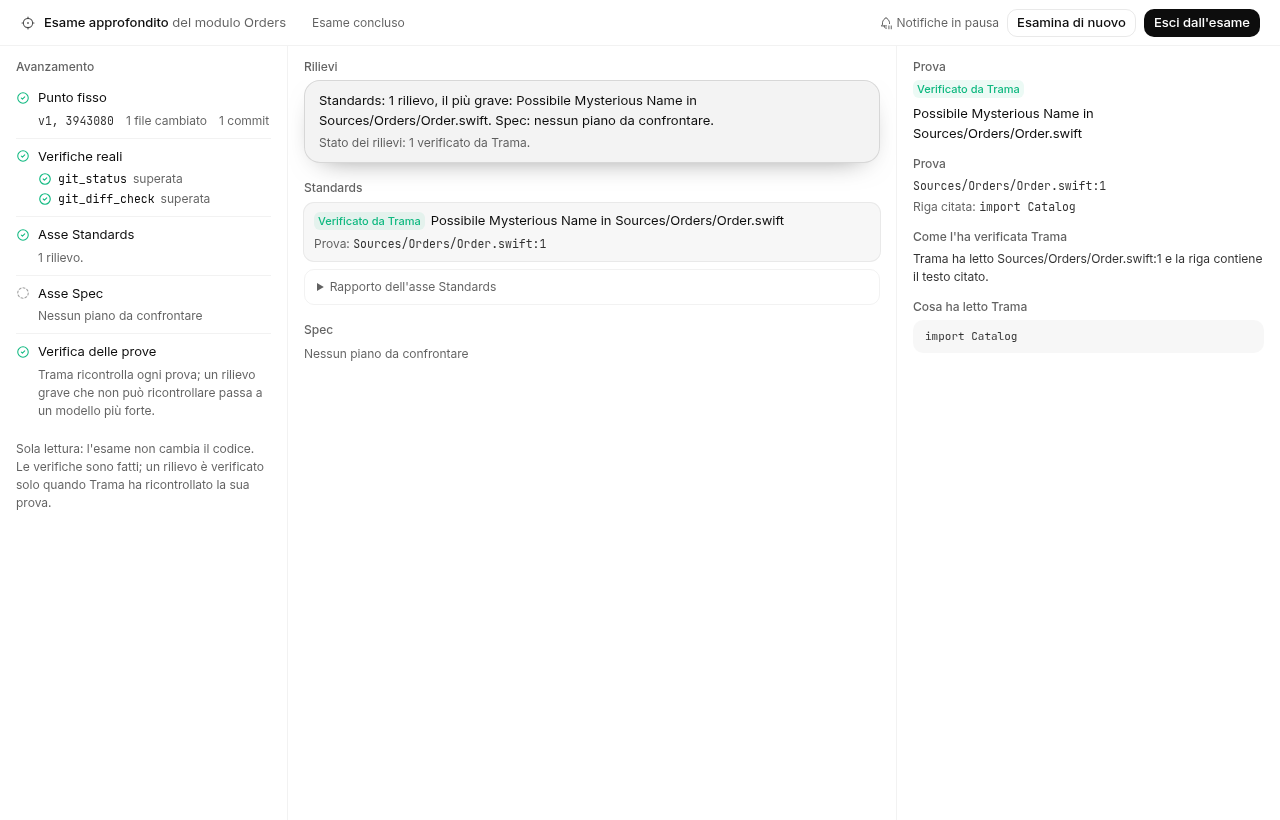
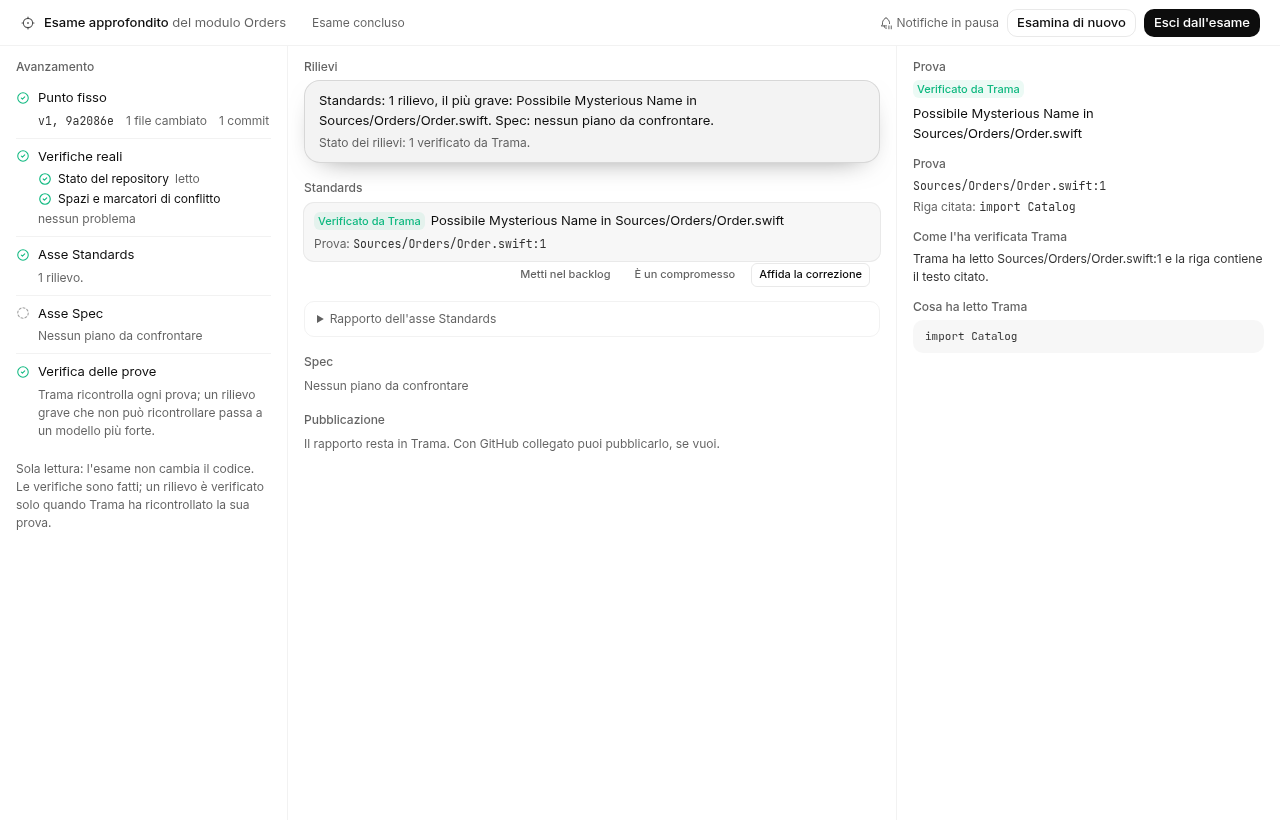
docs: refresh the focus mode screenshots with the finding actions

diff --git a/docs/verifiche/f03-esame-a-tutto-schermo-2026-09-28.md b/docs/verifiche/f03-esame-a-tutto-schermo-2026-09-28.md
@@ -15,7 +15,7 @@ Controllo di #127 (specifica #124) sul branch `feature/issue-127-focus-mode-full
 
 - Test: `app/src/main/core/focusScope.test.ts` (diff dal punto fisso senza file sensibili, diff e commit limitati al modulo, punto fisso inesistente, diff vuoto anche per un modulo, testo rifiutato, proposte di punto fisso), `app/src/main/core/audit.test.ts` (un esame alla volta per bersaglio, spec dalle issue citate nei commit, binding del modulo con la skill originale, nessuna frase della skill ripetuta), `app/src/main/focusAudit.integration.test.ts` (controller reale con il server di prova: errori prima dell'avvio, esame del modulo da `HEAD~1`, verifiche sul checkout, assi nella cartella del progetto, notifiche trattenute e consegnate all'uscita, un incarico autorizzato che finisce mentre l'esame è aperto).
 - ui-check: l'esame del candidato ora si apre a tutto schermo e si chiude con "Esci dall'esame"; il nuovo passo F03 apre un progetto con un tag `v1` e un commit sul modulo Orders, prova il punto fisso inesistente e il modulo senza cambiamenti, apre l'esame del modulo e controlla le tre colonne, l'uscita a destra, la prova verificata, poi l'esame dell'intero progetto. Le tre colonne restano dentro la finestra senza scorrimento orizzontale a 1600x1000, 1280x820, 1024x700 e 720x640 (la misura minima della finestra).
-- Schermate in `docs/images/f03/`, in chiaro e in scuro. "Prima" da origin/main 7e13d3f: mappa (`mappa-prima-*`), modulo (`modulo-prima-*`), esame del candidato nell'ispettore (`esame-candidato-prima-*`). "Dopo" da questo branch riallineato con origin/main cdead1fb (passi `31a` a `31f` di ui-check): mappa e modulo con il nuovo pulsante (`mappa-dopo-*`, `modulo-dopo-*`), errori della finestra di scelta (`punto-fisso-inesistente-*`, `diff-vuoto-*`), esame del modulo a tutto schermo alle quattro misure (`esame-modulo-<misura>-*`), esame dell'intero progetto (`esame-progetto-*`), esame del candidato a tutto schermo (`esame-candidato-dopo-*`).
+- Schermate in `docs/images/f03/`, in chiaro e in scuro. "Prima" da origin/main 7e13d3f: mappa (`mappa-prima-*`), modulo (`modulo-prima-*`), esame del candidato nell'ispettore (`esame-candidato-prima-*`). "Dopo" da questo branch riallineato con origin/main dd29be34 (passi `31a` a `31f` di ui-check): mappa e modulo con il nuovo pulsante (`mappa-dopo-*`, `modulo-dopo-*`), errori della finestra di scelta (`punto-fisso-inesistente-*`, `diff-vuoto-*`), esame del modulo a tutto schermo alle quattro misure (`esame-modulo-<misura>-*`), esame dell'intero progetto (`esame-progetto-*`), esame del candidato a tutto schermo (`esame-candidato-dopo-*`).
 - Il progetto del test F03 e quello del passo F03 di ui-check non hanno `Package.swift`: il server di prova esegue davvero i comandi delle verifiche, e su una macchina con Swift l'esame compilerebbe il pacchetto prima di aprire gli assi (causa del timeout in CI, riprodotta con un finto `swift` lento). Per questo le schermate "dopo" mostrano solo le verifiche di git.
 
 Non verificato: un'esecuzione reale di Codex. Il server di prova non è un modello e le sue risposte non sono evidenze. Le notifiche di sistema sono provate nel controller con un host di prova, non con il centro notifiche del sistema operativo.
